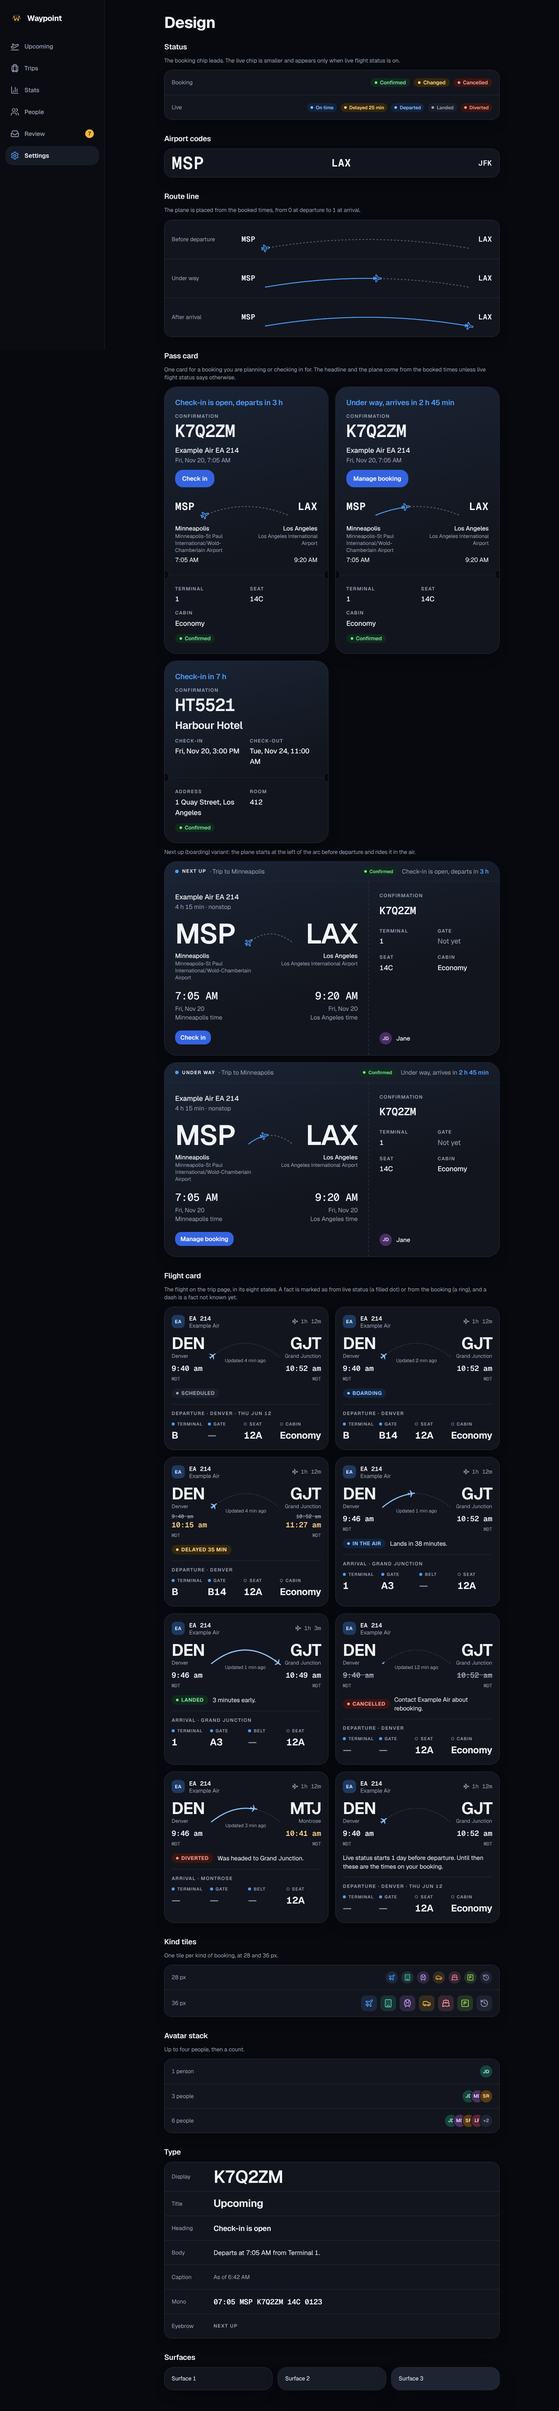
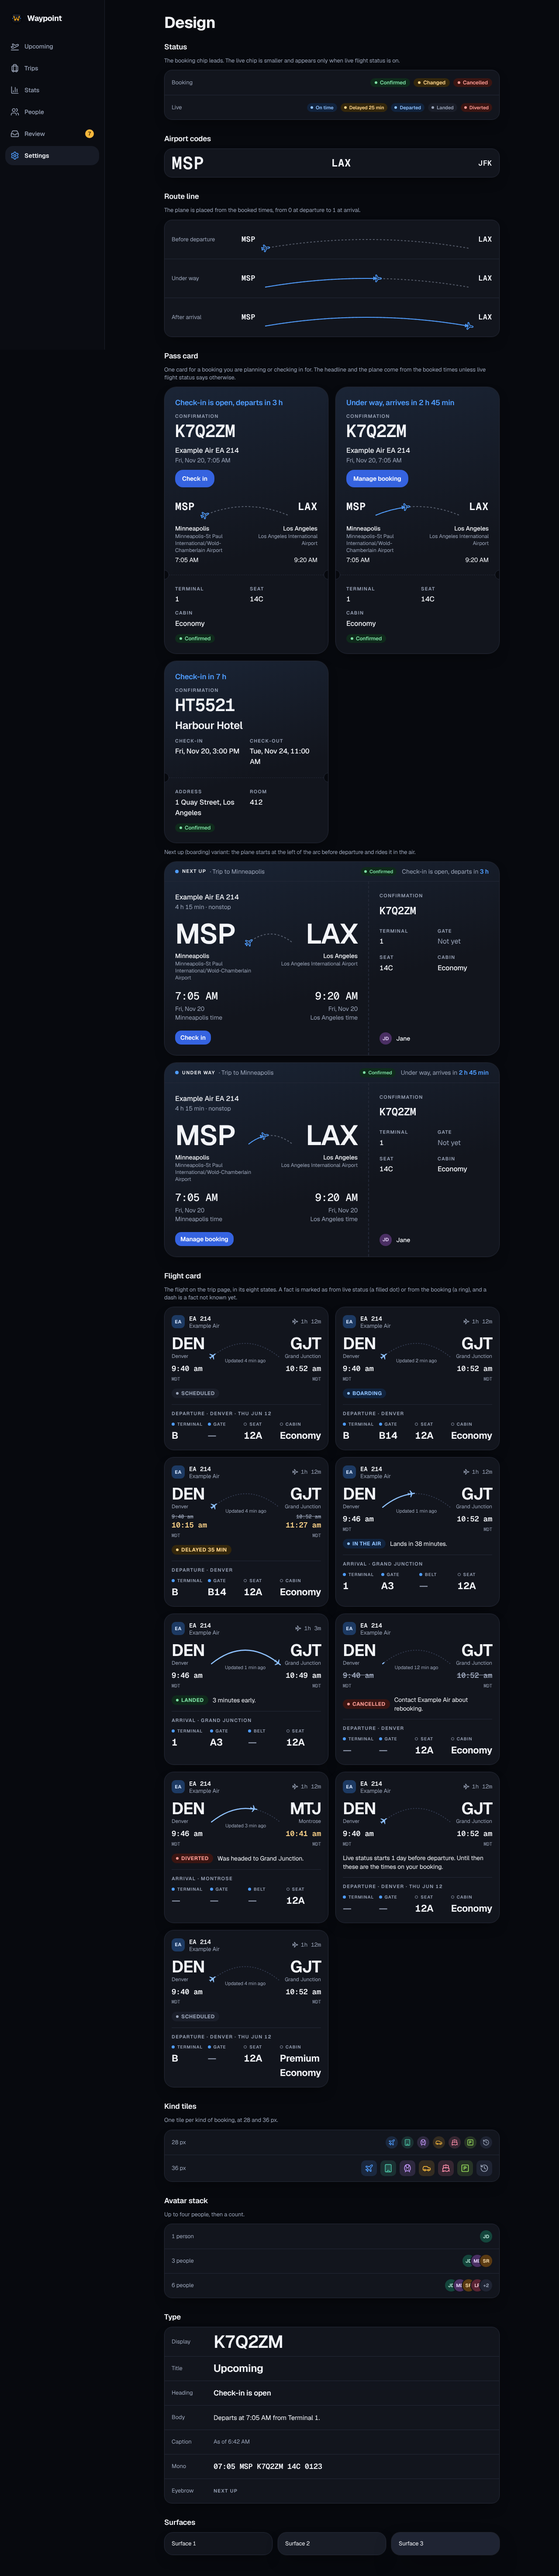
fix: facts wrap in their column, and the static demo's narrow trip page no longer overflows
The static demo's check at 390 px failed on the new card: the Cabin column overflowed the trip page's narrower card. The four facts are now a wrapping row whose items are as wide as their content or share the room equally, and a value may wrap, so a cabin of several words ("Premium Economy") stays inside its column. The Design page shows a Premium Economy card, and the design README no longer describes the date in a sentence.

Claude-Session: https://claude.ai/code/session_01VkTLMaRYAHGUMQLTkxcTjb

diff --git a/frontend/src/lib/components/FlightCard.svelte b/frontend/src/lib/components/FlightCard.svelte
@@ -85,12 +85,12 @@
 
   <div class="flex flex-col gap-2 border-t border-border pt-3">
     <span class="eyebrow">{view.side}{sideCity ? ` · ${sideCity}` : ""}{view.sideDay ? ` · ${view.sideDay}` : ""}</span>
-    <dl class="grid grid-cols-[repeat(4,minmax(min-content,1fr))] gap-2" data-facts>
+    <dl class="flex flex-wrap gap-x-2 gap-y-2" data-facts>
       {#each view.facts as fact (fact.label)}
-        <div class="min-w-0">
+        <div class="min-w-min flex-[1_1_0]">
           <dt class="flex items-center gap-[5px] whitespace-nowrap text-[10px] font-semibold uppercase tracking-[0.1em] text-muted-foreground">{@render source(fact.source)}{fact.label}</dt>
           {#if fact.value}
-            <dd class="mt-0.5 text-[22px] font-[650] tracking-[-0.02em]" class:whitespace-nowrap={!fact.label.startsWith("Seat")} class:break-words={fact.label.startsWith("Seat")}>{fact.value}</dd>
+            <dd class="mt-0.5 break-words text-[22px] font-[650] tracking-[-0.02em]">{fact.value}</dd>
           {:else}
             <dd class="mt-0.5 text-[22px] font-medium tracking-[-0.02em] text-muted-foreground"><span aria-hidden="true">—</span><span class="sr-only">Not known yet</span></dd>
           {/if}

diff --git a/frontend/src/lib/components/FlightCard.svelte.test.ts b/frontend/src/lib/components/FlightCard.svelte.test.ts
@@ -214,7 +214,16 @@ describe("the four facts", () => {
     draw(CASES[0]);
     const card = await screen.findByRole("article");
     expect(facts(card)[3]).toEqual(["Cabin", "Economy"]);
-    expect(card.querySelector("[data-facts]")).toHaveClass("grid-cols-[repeat(4,minmax(min-content,1fr))]");
+    expect(card.querySelector("[data-facts]")).toHaveClass("flex-wrap");
+  });
+
+  it("lets a cabin of several words wrap in its column instead of overflowing", async () => {
+    draw({ segment: { ...booked, details: { ...booked.details, cabin: "Premium Economy" } }, now: NOW.none });
+    const card = await screen.findByRole("article");
+    expect(facts(card)[3]).toEqual(["Cabin", "Premium Economy"]);
+    const value = card.querySelectorAll("[data-facts] dd")[3];
+    expect(value).toHaveClass("break-words");
+    expect(value).not.toHaveClass("whitespace-nowrap");
   });
 
   it("lists every traveller’s seat in order", async () => {

diff --git a/frontend/src/pages/Design.svelte b/frontend/src/pages/Design.svelte
@@ -51,6 +51,7 @@
     { name: "Cancelled", now: cardNow.cancelled, status: status(cardNow.cancelled, 12, { state: "cancelled" }), segment: flightEA },
     { name: "Diverted", now: cardNow.diverted, status: status(cardNow.diverted, 3, { state: "diverted", destination: "MTJ", dep_actual: "2025-06-12T09:46", arr_estimated: "2025-06-12T10:41" }), segment: flightEA },
     { name: "Scheduled, no live status", now: cardNow.none, segment: flightEA },
+    { name: "Scheduled, Premium Economy", now: cardNow.scheduled, status: status(cardNow.scheduled, 4, { dep_terminal: "B" }), segment: { ...flightEA, details: { ...flightEA.details, cabin: "Premium Economy" } } },
   ];
 
   const tileKinds = ["flight", "hotel", "train", "car", "cruise", "parking", "visit"] as const;

diff --git a/docs/design/flights/README.md b/docs/design/flights/README.md
@@ -16,7 +16,7 @@ Each page says what it replaces: the flight view of `frontend/src/lib/components
 - Flight identity is top left (Waypoint's own mark tile and the flight number, never an airline logo) and the total duration is top right.
 - Departure and arrival times sit under their airports as wall-clock times with the zone, never converted. When delayed they turn amber, with the original time struck through above the new one.
 - "Updated N min ago" sits between the times, and is omitted when there is no live data.
-- A status pill and one plain sentence give the state (Scheduled, Boarding, Delayed 35 min, In the air, Landed, Cancelled, Diverted).
+- A status pill gives the state (Scheduled, Boarding, Delayed 35 min, In the air, Landed, Cancelled, Diverted); a short line beside it appears only where it adds something (see the owner decisions below).
 - Four facts in big type with small-caps labels: before departure Terminal, Gate, Seat, Cabin; in the air and landed Terminal, Gate, Belt, Seat (the arrival side). Each is marked as from live status (a filled blue dot) or from the booking (a hollow grey ring). An unknown value shows a dash; the row is never left out.
 - Eight states: scheduled, boarding, delayed, in the air, landed, cancelled, diverted, and scheduled with no live data. With no live data the card says live status starts 1 day before departure (decided by the owner on 2026-11-16, down from the 3 the frames first showed) and shows the times on the booking.
 - The live status view: a big route, the headline "Landing in 38 minutes", a progress bar, a departed / in the air / lands timeline, big arrival facts (Terminal, Gate, Belt), seats per traveller from the booking, and Refresh with when the data was last updated.
@@ -35,9 +35,9 @@ Each page says what it replaces: the flight view of `frontend/src/lib/components
 ## Owner decisions on the build (#714, 2026-11-16)
 
 - Boarding, which the status source does not report, is derived: a live status with a gate and departure within 40 minutes.
-- The parts the frames don't draw are accepted as built: "+1 day" after an overnight arrival, the day in the sentence when the flight is not today, booked times for a flight with no live status, the booking's terminal (with the ring) when live status has none, and the confirmation code, travellers and Edit, Move and Remove under the facts.
+- The parts the frames don't draw are accepted as built: "+1 day" after an overnight arrival, the date after the Departure or Arrival label when the flight is not today, booked times for a flight with no live status, the booking's terminal (with the ring) when live status has none, and the confirmation code, travellers and Edit, Move and Remove under the facts.
 - The trip page's card has no Refresh button; Refresh moves to the live status view (#715). A small quiet line, "Live updates paused until <time>" with the reason, stays on the card while updates are paused (monthly limit, rate limit or a refused key), whether or not a status is stored. The frames don't show it.
-- With no live status yet, the card keeps the departure date ("Departs Thu Jun 12.") before the sentence about when live status starts.
+- With no live status yet, the card says when live status starts, and the departure date shows after the Departure label ("Departure · Denver · Thu Jun 12").
 - The live-status window is one day before departure.
 - The card never repeats itself (owner, 2026-11-16): there is no line beside the pill for Boarding, Scheduled or Delayed (the pill, the gate and the times say it). The short lines that stay, each decided by the owner: In the air says "Lands in 38 minutes."; Landed says "3 minutes early.", "N minutes late." or "On time."; Cancelled says "Contact <airline> about rebooking."; Diverted says "Was headed to Grand Junction." (or "Where it lands isn't known yet." when no other airport is known); a flight with no live status says when live status starts. The date goes after the Departure or Arrival label (for example "Departure · Denver · Thu Jun 12") when it isn't today. The accessible name of the article still says the whole state in words.
 - Cabin and arc, kept as built (owner, 2026-11-16, after seeing the frames and the build side by side at 330 and 358 px): the cabin reads "Economy" in full at the frames' value size, in columns that are equal where there is room and otherwise as wide as their content; the route is one continuous traveled line ending at the plane, and the frames' two-piece line and small apex dot are not used because the dot and the plane don't coincide in the frames' In the air panel.
